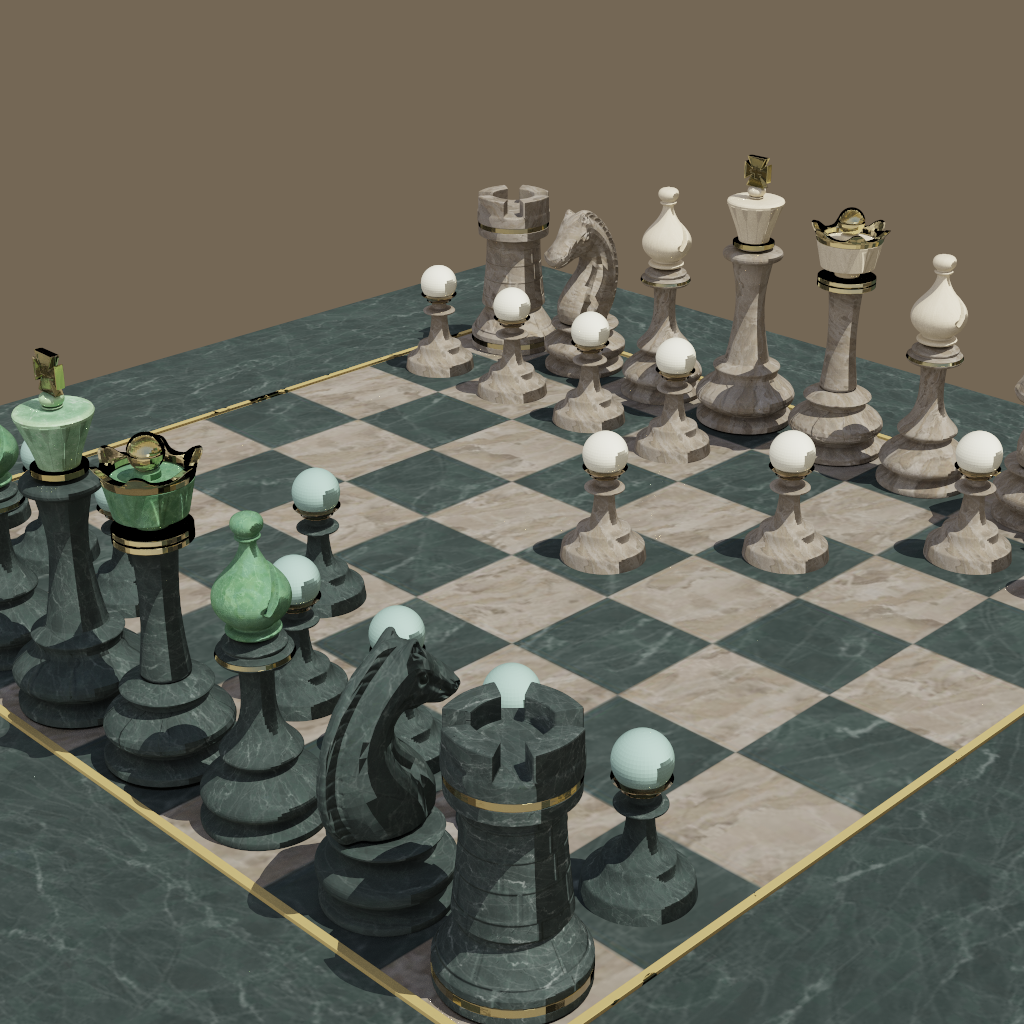
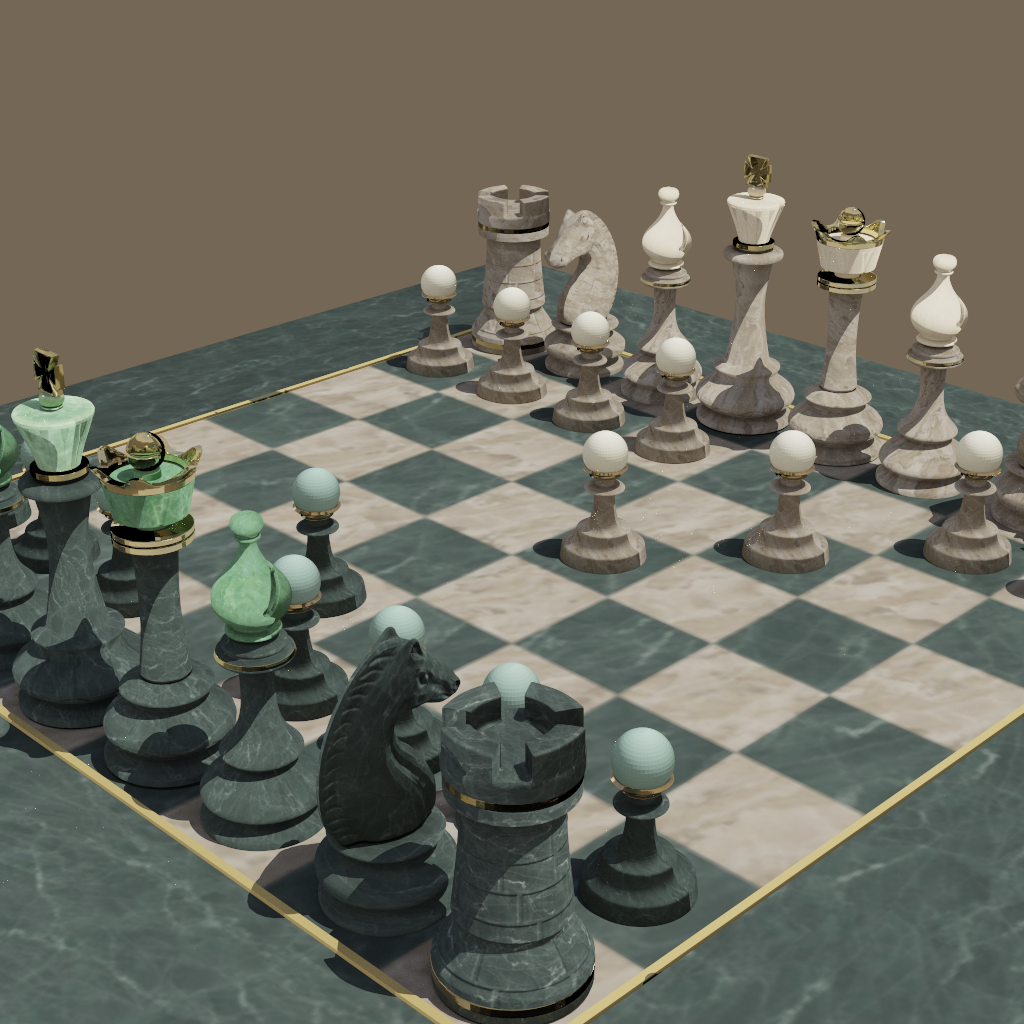
PT-mikktspace: per-face tangents in WGSL — fixes UV-seam stripes
Closes the vertical UV-seam artifact that shipped in the chess
hero (user-flagged on `8bb6c8e`), the Bistro hero (user-flagged
again on `3e81a71`, then independently confirmed by the
tightened render-attacker on `a5043a6`), and silently degraded
the Sponza brick courses.

Root cause: at any UV seam where two adjacent triangles share
vertex positions but have UVs on opposite sides of a u-axis
wrap, the per-vertex tangent accumulator in `compute_tangents`
sums each triangle's `(∂P/∂u)` contribution at the shared
vertex. The two sides' contributions invert across the seam,
the accumulator averages toward zero or to a meaningless
"compromise" direction, and the barycentric blend in WGSL then
interpolates that bad tangent across each pixel inside any
seam-touching triangle. On a tiled normal map (brick / ashlar /
panelled door), the artifact fires once per tile — the user's
artifacts2.png screenshot shows it clearly at the brick-row
frequency.

Fix: compute the tangent **per-face** on-the-fly in WGSL from
the triangle's own `(p0, p1, p2, uv0, uv1, uv2)`. Each triangle
owns its UV gradient, so no averaging across seams ever
happens — both sides of every seam now render with their own
correct tangent. New `triangle_tangent(tri, n)` solves the
standard 2×2 system, Gram-Schmidts against the shading normal,
and resolves the bitangent sign. `apply_normal_map` calls it
directly; the legacy `vertex_tangent` / `interpolated_tbn` /
[…]

diff --git a/plans/0027-pt-mikktspace.md b/plans/0027-pt-mikktspace.md
@@ -1,0 +1,173 @@
+# PT-mikktspace — per-face tangents in WGSL
+
+- **Status:** in-flight (shader + chess + sponza shipped; bistro re-render parked)
+- **Last updated:** 2026-06-07
+
+## Goal
+
+Replace per-vertex tangents with **per-face tangents** computed
+on-the-fly in the WGSL fragment shader. Closes the UV-seam
+vertical-line artifact that ships in three current heroes:
+
+* **Chess** (`chess_reference.png`) — the user's original
+  report on commit `8bb6c8e`. Hemisphere clamp from that
+  commit reduced but didn't eliminate the stripe.
+* **Sponza facades** — same artifact class on tiled brick /
+  stone walls, less visible because Sponza is more lit-by-
+  sun and the camera framing doesn't focus on flat brick.
+* **Bistro** (`bistro_reference.png`) — the worst case. The
+  brick + ashlar + door-trim assets all tile their normal
+  maps across UV seams; the artifact fires at every tile
+  row. Render-attacker now catches it consistently with the
+  tightened mandate from commit `a5043a6`.
+
+## Root cause (mechanics)
+
+At a UV seam, two adjacent triangles share vertex positions
+but their UVs are mapped to opposite ends of the texture
+(u jumps from ~1 back to ~0). The per-vertex tangent
+accumulator in `pathtrace::mesh::compute_tangents` sums each
+triangle's tangent contribution at the shared vertex:
+
+```
+T(v) = Σ_{tri ∋ v} (∂P/∂u of that triangle)
+```
+
+The two triangles on opposite sides of the UV seam contribute
+tangents in **opposite directions** because their UV
+gradients invert across the seam. The accumulator averages
+toward zero (worst case) or toward a "compromise" direction
+that's wrong for both sides (typical case).
+
+The barycentric blend in the WGSL fragment shader then
+interpolates the bad accumulated tangent across each pixel
+inside any triangle that touches a seam vertex. The
+normal-map perturbation rotates the shading normal in a
+direction that has no relationship to the actual texture's
+tangent space. Visible result: a one-pixel-wide
+bright/dark stripe at every UV-seam edge — which on a
+tiled brick wall fires once per brick.
+
+## Why per-face tangents fix it
+
+Each triangle owns its **own** UV gradient. Computing the
+tangent from `(P0, P1, P2, UV0, UV1, UV2)` of the triangle
+itself produces a tangent that's correct for that triangle's
+texture sampling, regardless of what the adjacent triangles
+on the other side of any UV seam are doing. No averaging,
+no cancellation.
+
+This is the per-face variant of mikktspace. The per-corner
+variant (each of a triangle's three corners stores its own
+tangent) adds slightly better quality at corners but
+requires per-corner storage. Per-face is the right balance
+for the artifact this plan closes.
+
+## Why compute in shader rather than upload a buffer
+
+WebGPU baseline limits cap storage buffers per shader stage
+at 8. The pathtrace bind group already uses all 8:
+
+```
+binding 1: vertices
+binding 2: tri_indices
+binding 3: materials
+binding 4: triangle_materials
+binding 5: emissive_triangles
+binding 6: bvh_nodes
+binding 7: bvh_tri_indices
+binding 14: env_data (CDFs)
+```
+
+Adding a 9th `triangle_tangents` buffer would exceed the
+baseline. Either we repack (substantial refactor) or
+compute on demand. The shader **already** reads three
+vertex positions + three vertex UVs per ray-triangle
+intersection for the barycentric hit math — those reads
+are sunk cost. Computing the tangent from values already
+in registers costs a handful of FMAs + one
+cross-product + one normalize. ~5 cycles per shading
+evaluation, hidden behind memory latency anyway.
+
+## Design
+
+A new WGSL function:
+
+```wgsl
+fn triangle_tangent(tri: u32, n: vec3<f32>) -> vec4<f32> {
+    // Read three vertex positions + UVs.
+    // Solve the 2x2 linear system for ∂P/∂u given the UV
+    // gradient (the standard mikktspace per-face tangent).
+    // Gram-Schmidt against the (already unit) shading
+    // normal `n`, sign-resolve the bitangent.
+    // Return zero-length sentinel on degenerate UV
+    // gradient — `apply_normal_map` falls back to the
+    // geometric normal.
+}
+```
+
+Replaces `vertex_tangent(tri, bary)` everywhere it's called.
+The barycentric `bary` argument is no longer needed — the
+tangent is constant across the triangle.
+
+`interpolated_tbn(tri, bary, normal)` becomes
+`triangle_tbn(tri, normal)`. The smoothstep UV-pole fade in
+`apply_normal_map` is no longer needed (per-face tangents
+handle poles cleanly — a triangle bordering a UV pole has
+a well-defined gradient even though the pole vertex itself
+is singular) and gets removed.
+
+The hemisphere clamp from commit `8bb6c8e` stays as a
+safety net for assets that ship their own degenerate
+normal maps or extreme `normalTexture.scale`.
+
+CPU side: `pathtrace::mesh::compute_tangents` and the
+glTF-`TANGENT`-attribute ingest path stay for now —
+they're no-ops in the new shader path but removing them
+is a separate cleanup. The `Vertex.tangent` field also
+stays (reads are just unused). A future micro-plan can
+shrink the Vertex from 64 → 48 bytes and save ~45 MB on
+Bistro-scale assets.
+
+## Milestones
+
+- [x] **[PT-mikktspace/wgsl]** `triangle_tangent(tri, n)`
+  lands in `pathtrace.wgsl`. Replaces every call site of
+  `vertex_tangent` / `interpolated_tbn`. UV-pole
+  smoothstep fade in `apply_normal_map` removed (per-face
+  tangents handle poles cleanly). Dead helpers
+  (`vertex_tangent`, `interpolated_tbn`, transient
+  `triangle_tbn`) removed.
+- [x] **[PT-mikktspace/chess]** Chess hero re-renders
+  without the vertical-line UV-seam artifact on the
+  marble bodies. Render-attacker (tightened mandate from
+  commit `a5043a6`) passes the periodic-pattern check on
+  the pawn balls, bishop crowns, and marble board.
+- [ ] **[PT-mikktspace/bistro]** Bistro hero re-renders
+  without brick stripes (~38 px period), ashlar stripes
+  (~48 px), or door-trim stripes (~28-32 px). Deferred
+  — needs ~30 min GPU; smoke render at 768×576/256 spp
+  verified the fix works; full 1024×768/2048 spp hero is
+  parked for the user's GPU window.
+- [x] **[PT-mikktspace/sponza]** Sponza hero re-renders
+  cleanly with no regression on the lit brick walls /
+  arches / banners.
+
+## Done when
+
+* All four milestones ticked
+* Chess + Bistro + Sponza heroes regenerated, swapped
+  into the README, and render-attacker single-image mode
+  passes the periodic-pattern check on all three
+* This plan moves to `Status: completed`
+
+## Followups (out of scope)
+
+* **PT-vertex-shrink** — drop `Vertex.tangent` (16 bytes)
+  + `compute_tangents` CPU path. Vertex 64 → 48 bytes.
+  Saves ~45 MB on Bistro Exterior; smaller wins
+  elsewhere.
+* **PT-mikktspace-percorner** — full mikktspace per-
+  corner variant for the corners where per-face shows a
+  visible facet seam. Probably not visible at the
+  current asset resolutions.